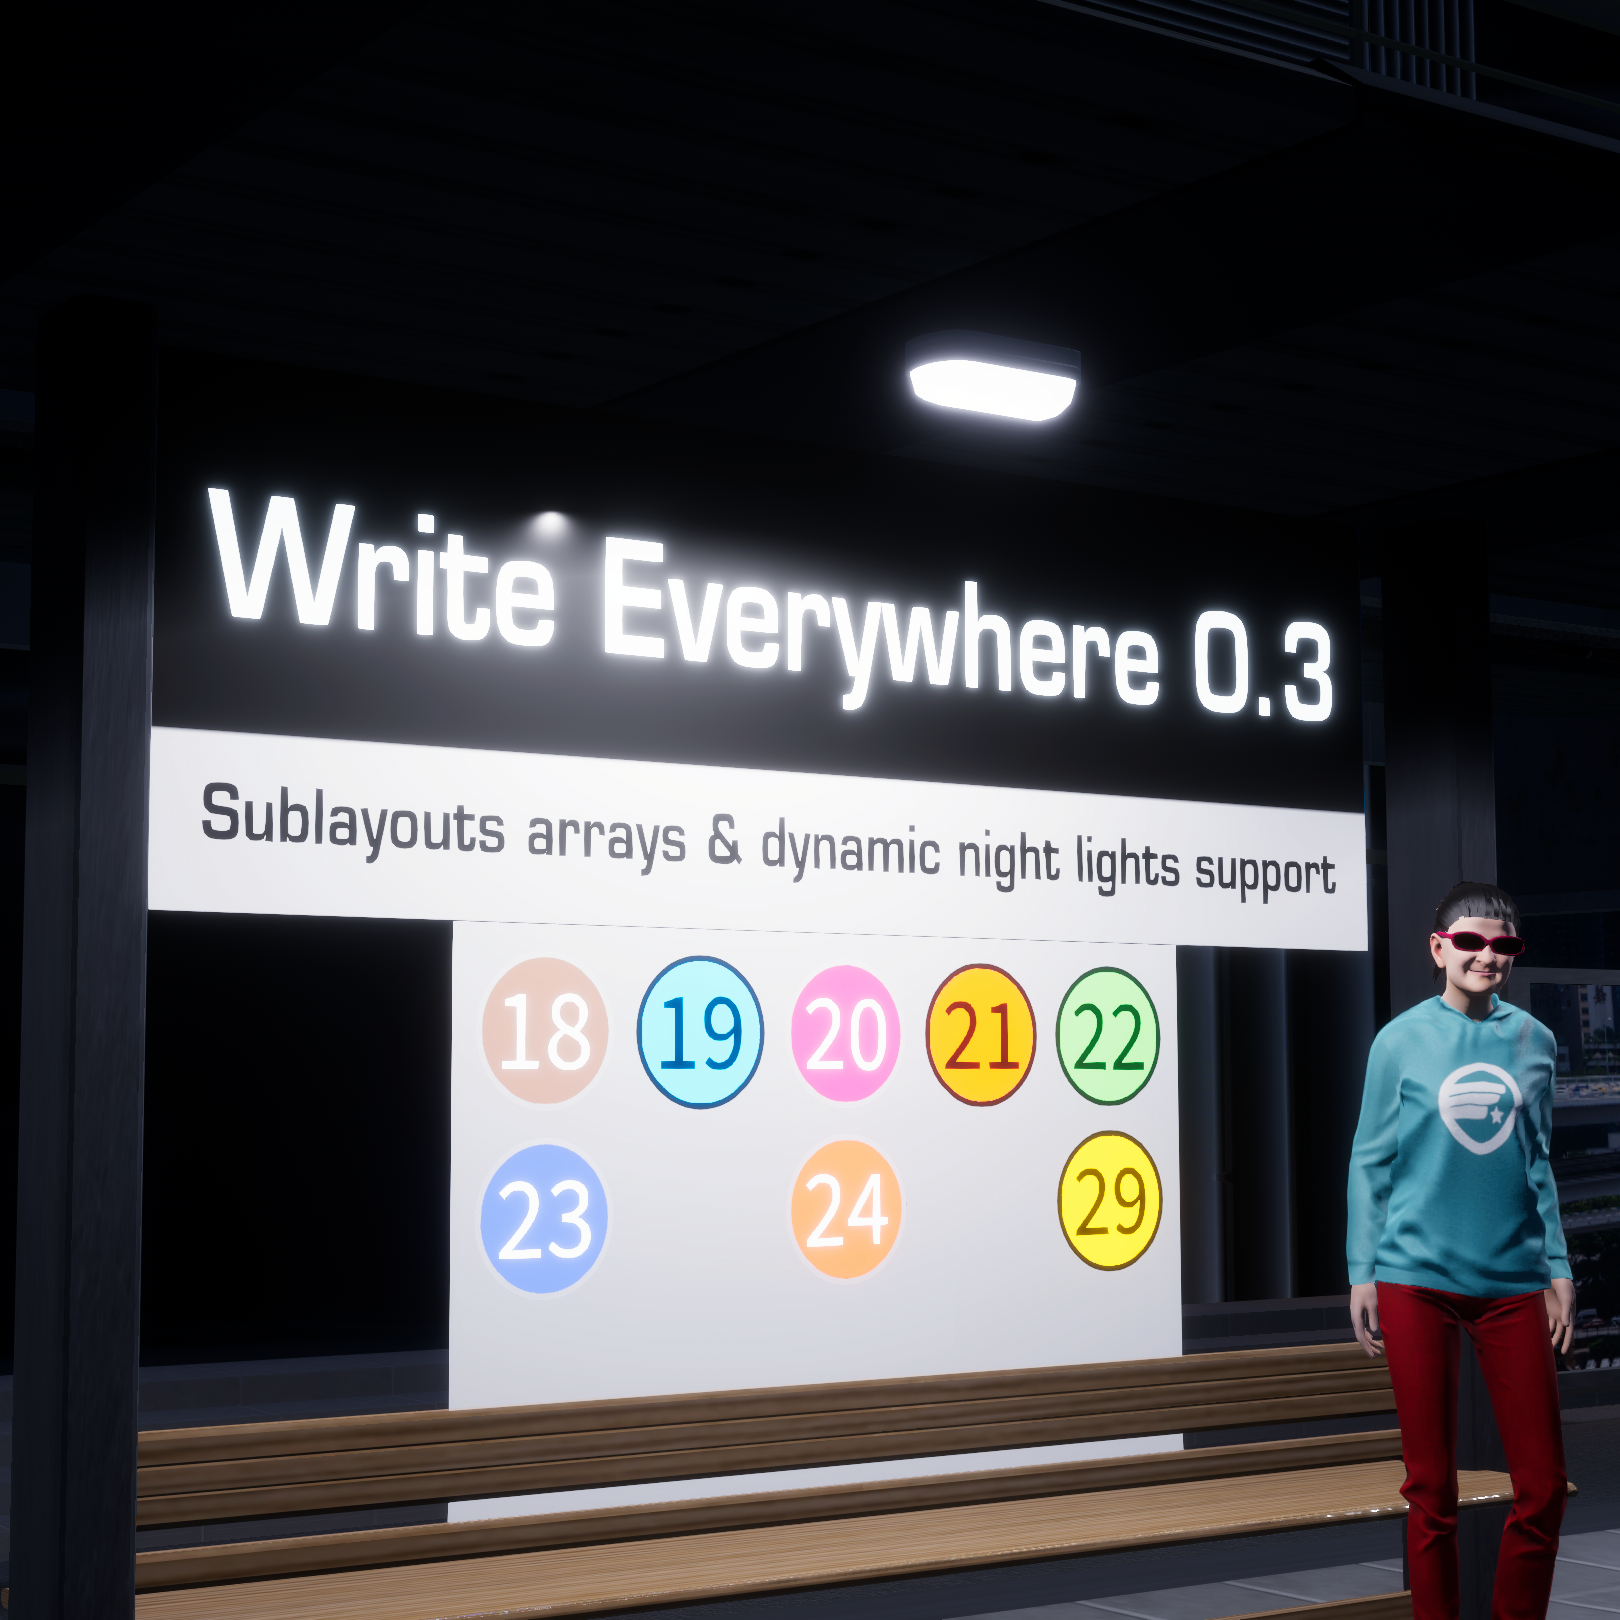
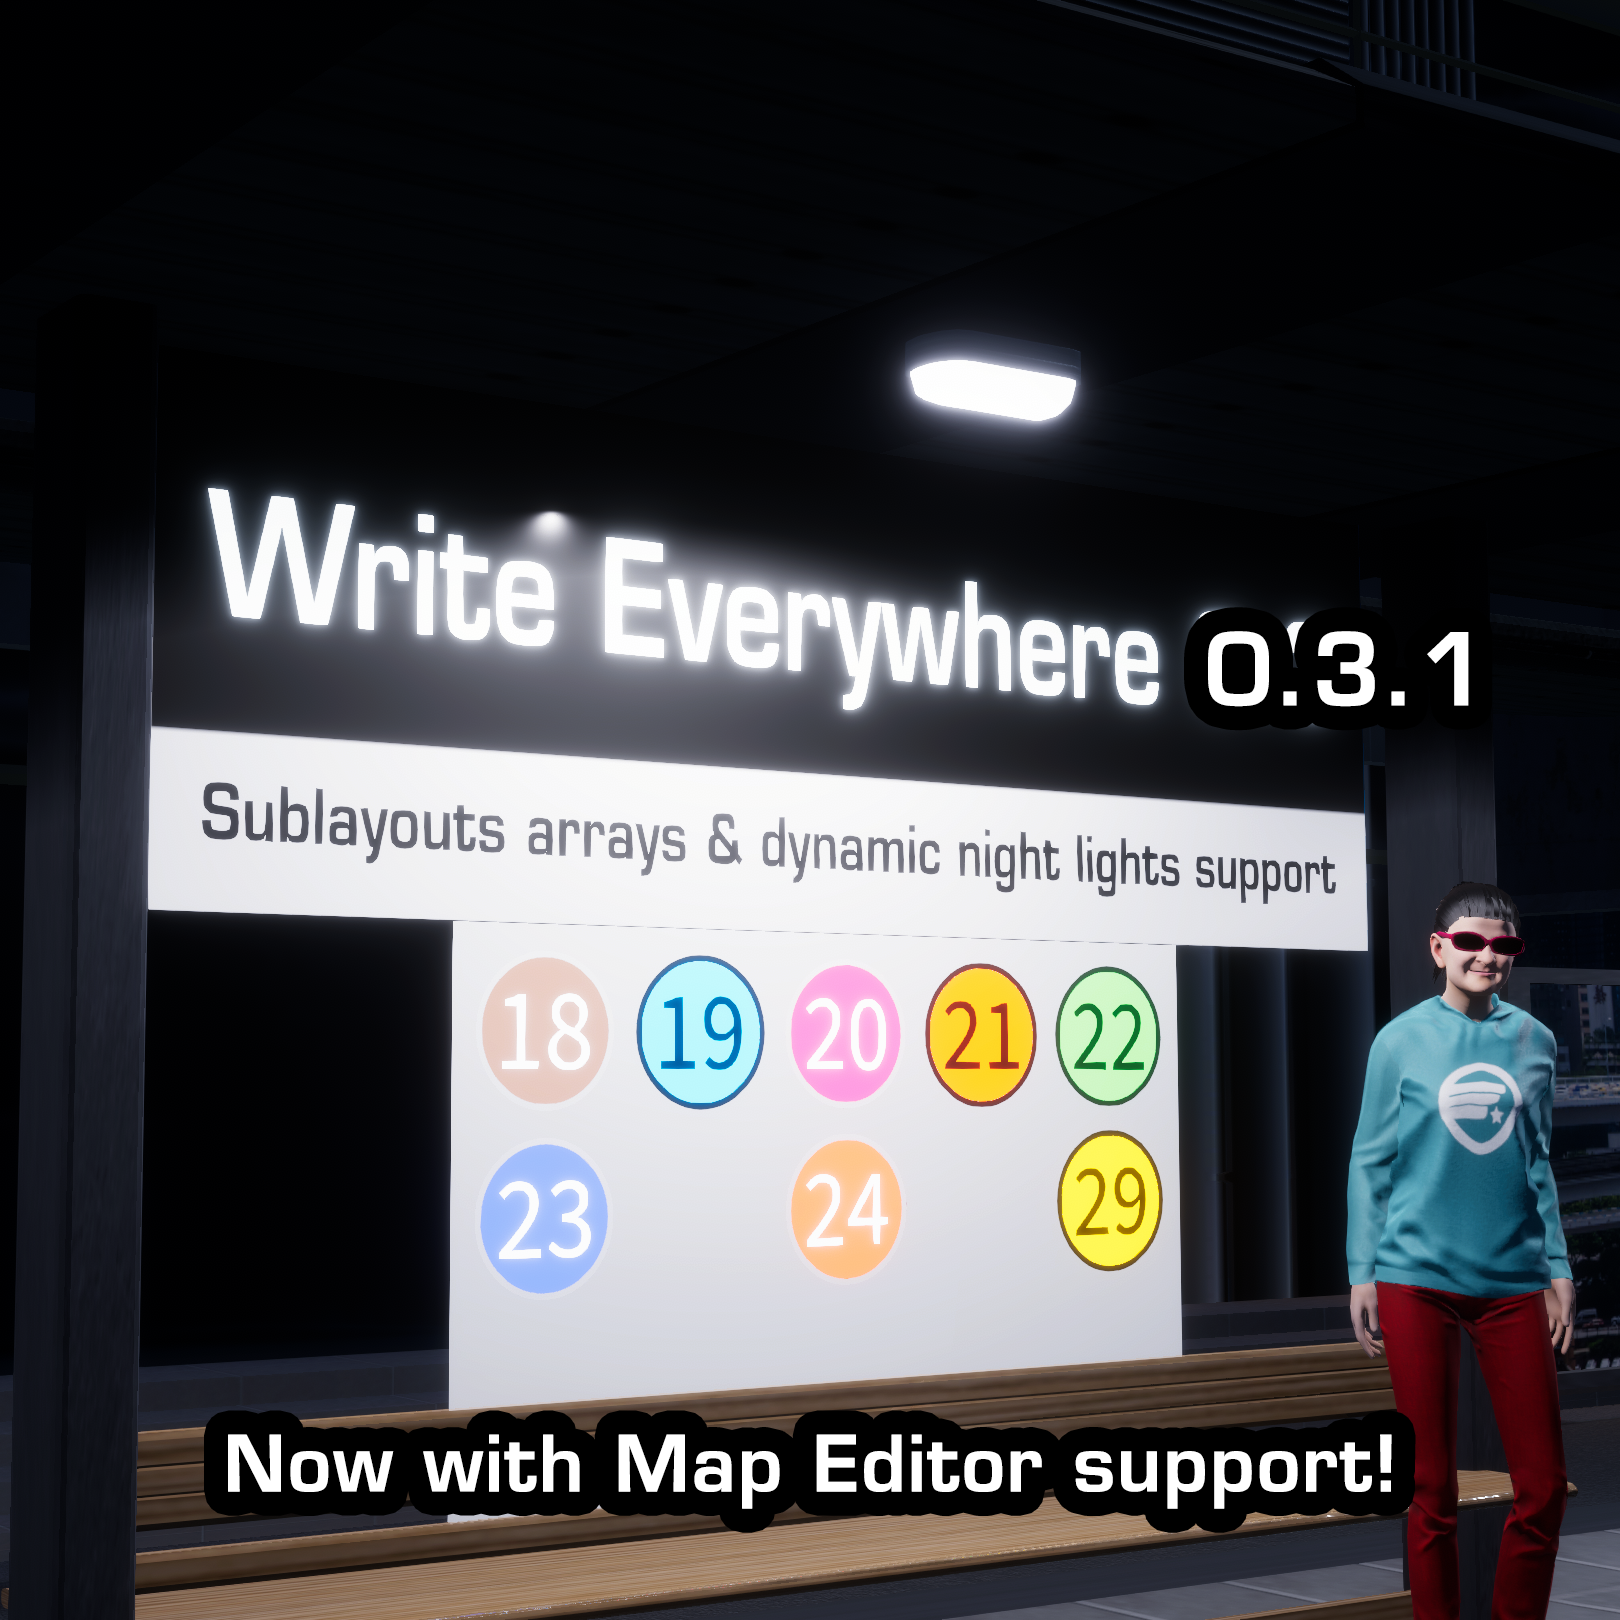
v0.3.1r0 Udated changelog.md and sceenshots

Changed region(s): [[0.1235, 0.8642, 0.8951, 0.9568], [0.7099, 0.3704, 0.8642, 0.463], [0.8951, 0.3704, 0.9259, 0.4321]]

diff --git a/BelzontWE/changelog.md b/BelzontWE/changelog.md
@@ -1,4 +1,13 @@
-# v0.3.0r0 (13-APR-25)
+# v0.3.1r0 (27-APR-25)
+- ADDED EDITOR SUPPORT! Now custom maps can pack custom assets, fonts and layouts to be distributed, it's also valid for WE Modules settings. 
+  - Example of usage: Add the car plates custom design using the WE Module for vehicle plates positions, then the players can get the layout by default!
+- ADDED SUPPORT FOR FALLBACK IMAGES ON ATLASES! Use the `_Fallback.png` inage file to show an image when an image with some given name isn't available at atlases - it could be a transparent image!
+- Smarter default layout application: When setting up a layout to a spawner object prop (like the gas station prices pylons), any variation from that prefab will also inherit the layout setted up
+- WE MODULES MAKERS: Reloading sprites now also reload images from all WE Modules currently active
+- WE MODULES MAKERS: Added button to reload subtemplates from WE Modules currently loaded
+- Minor UI fixes
+
+## FROM v0.3.0r0 (13-APR-25)
 - Added support to template placeholder arrays! It may be useful when making dynamic content (like reading lines passing at a station)
   - Limited to 256 instances, 100 items per axis row (only will render the first 256 of them)
   - Quantity of instances may be controlled manually or using formulae; values < 0 will fill the entire array size while any other number will be read literally (up to 256)
